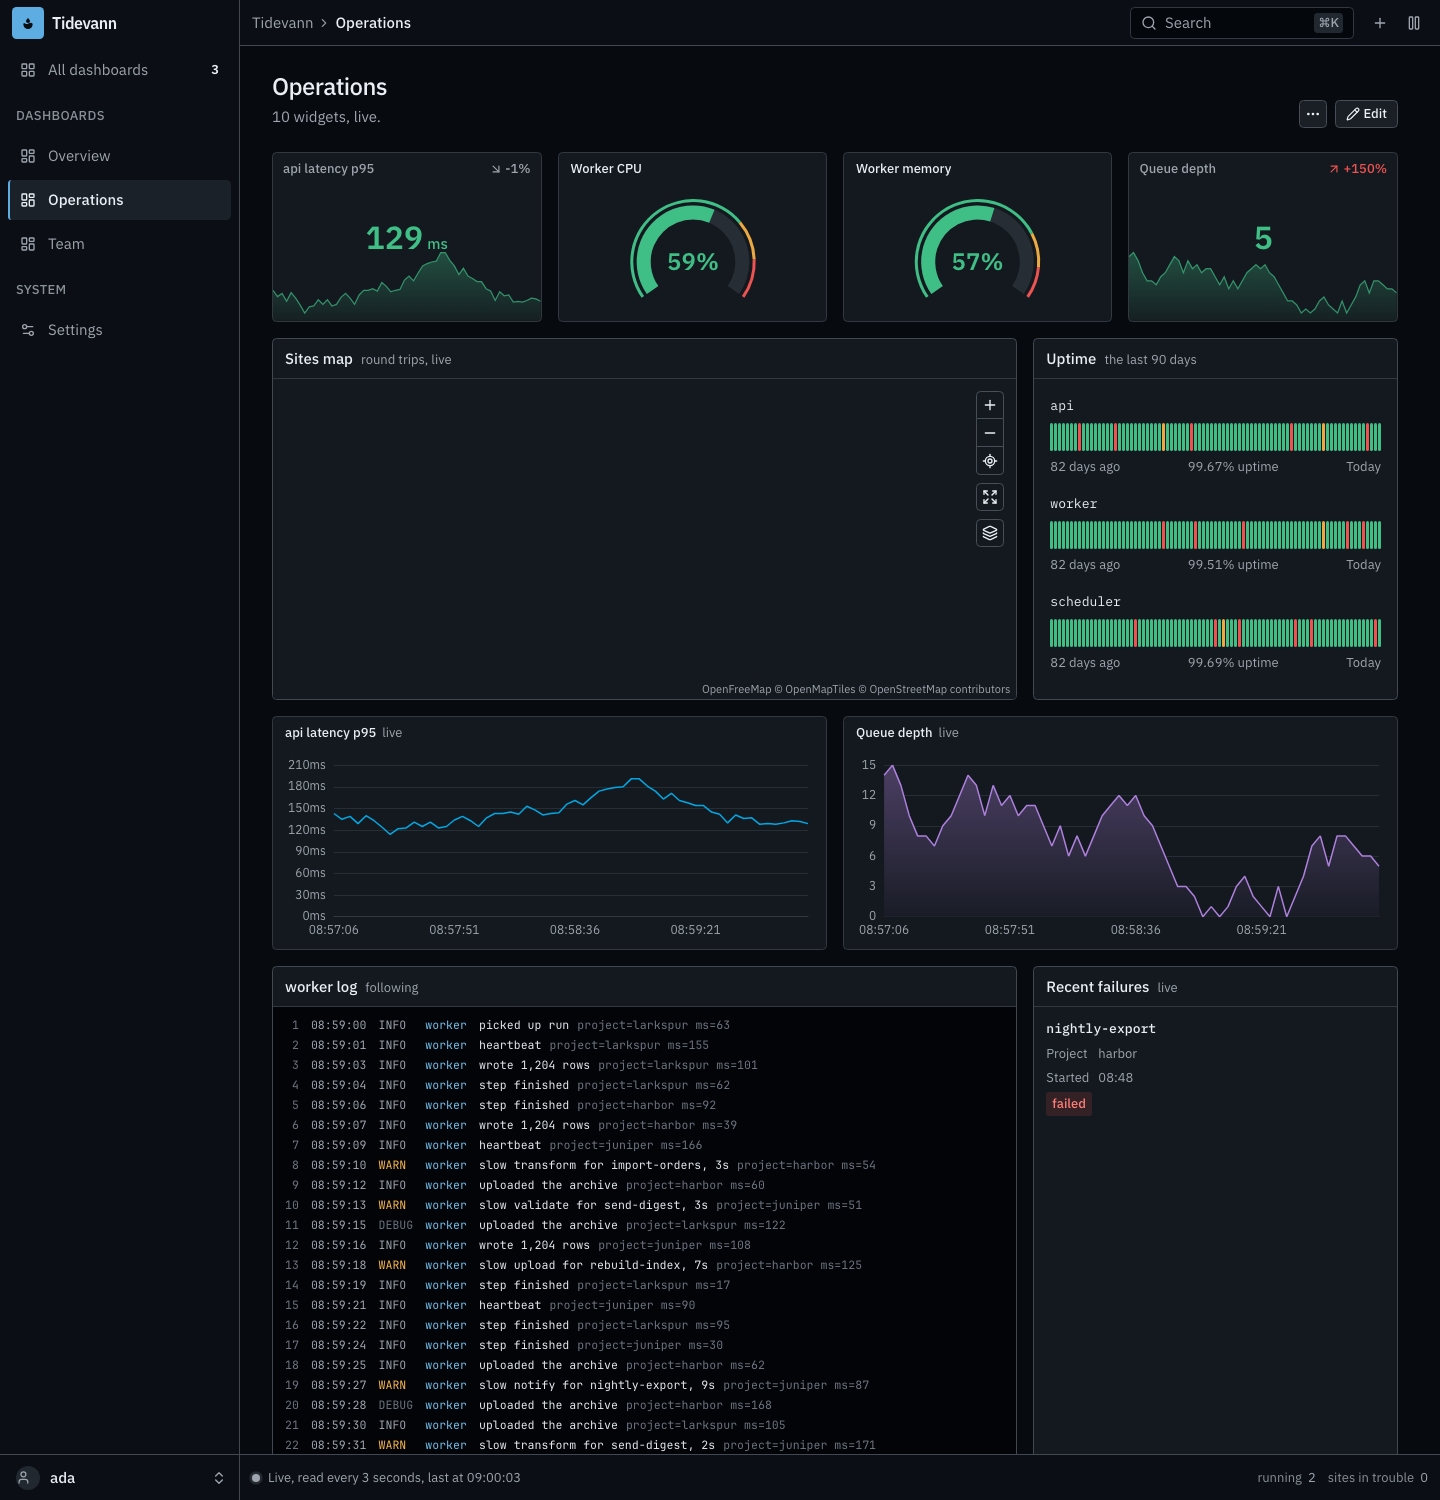
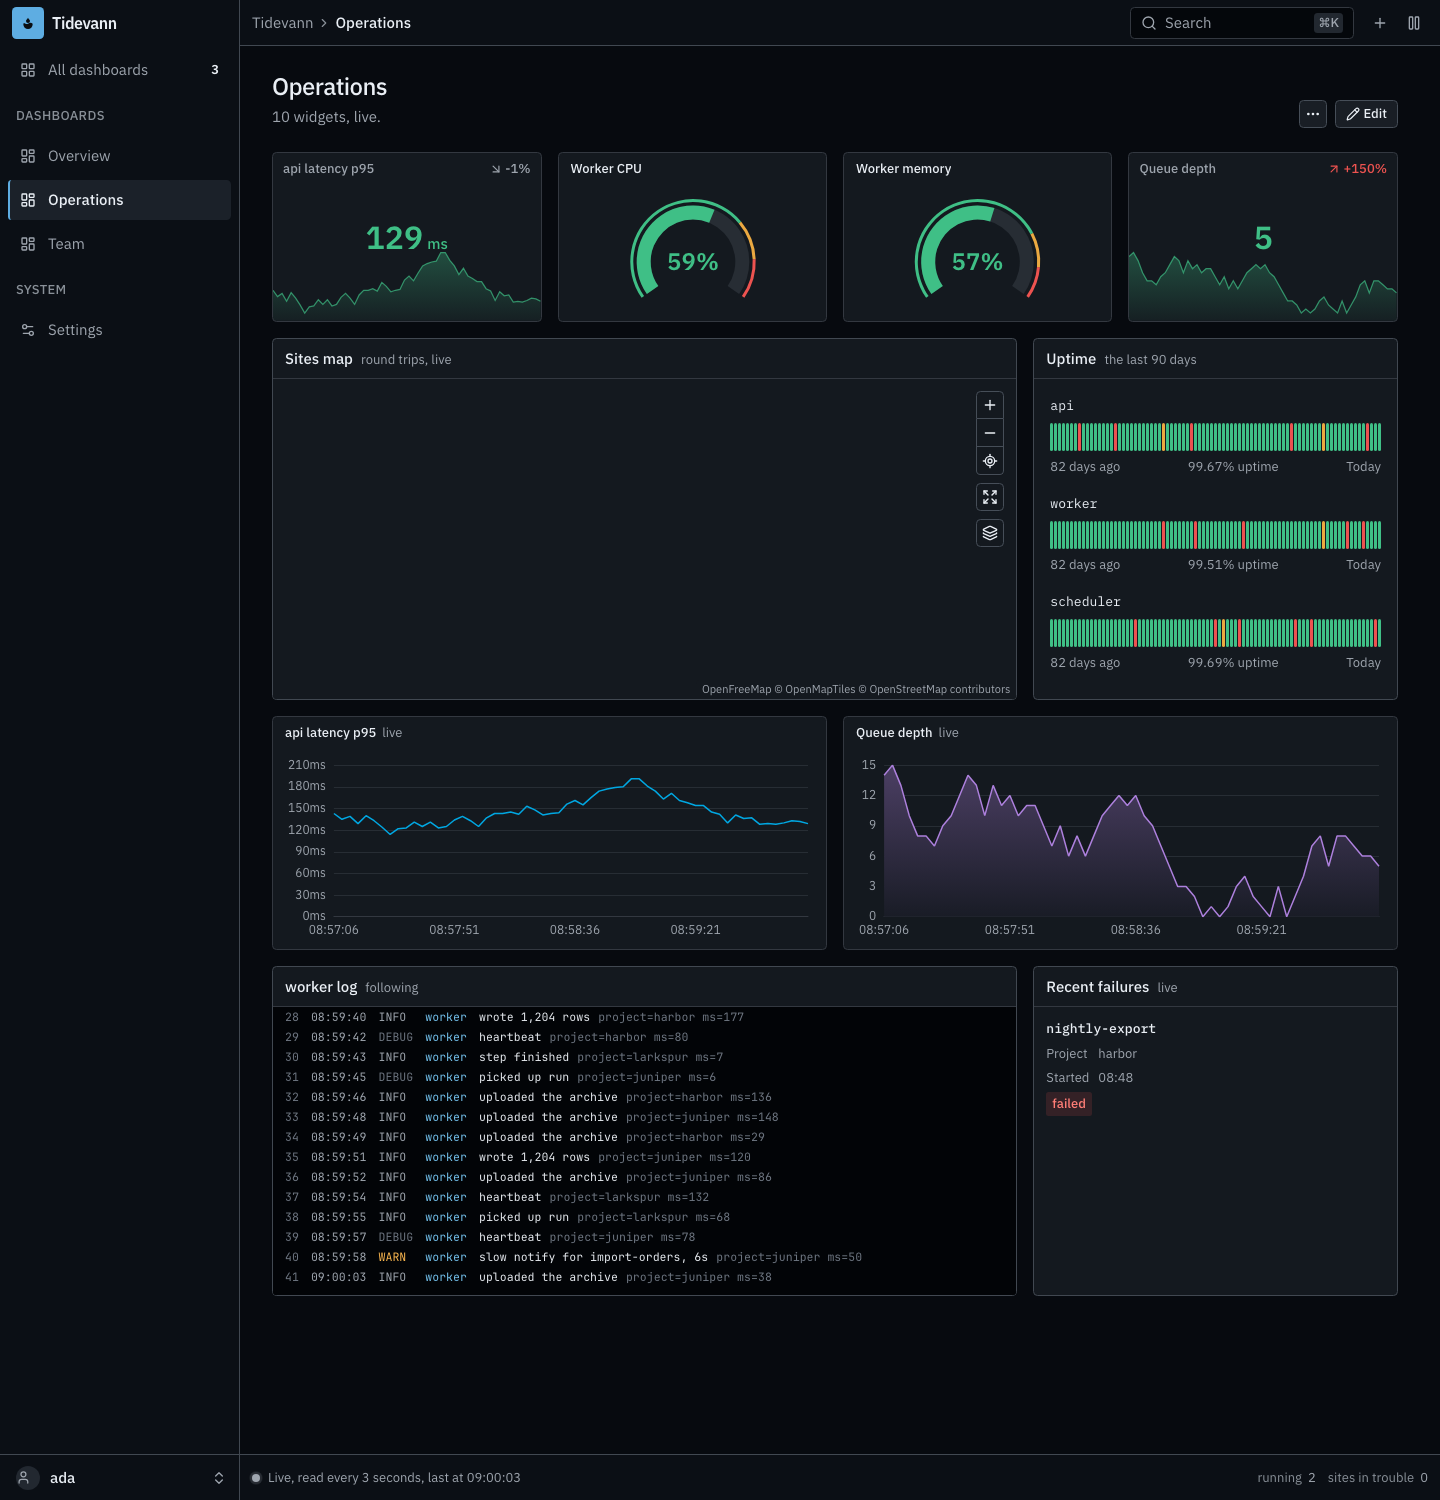
docs: the web dashboard shot again past sokkel-ui #600, its worker log as egui's

Changed region(s): [[0.1875, 0.6747, 0.5938, 0.9813]]

diff --git a/docs/parity/dashboard.md b/docs/parity/dashboard.md
@@ -82,5 +82,7 @@ UTC, so the shots are taken in UTC: shot in Oslo, the schedules' times stood an 
 
 ## Next
 
-- Shoot the web's screens again once the sokkel-ui pin moves past #600 (`daa906c6`), which fixed
-  the web's worker log: it grew to its lines, its `h-72` lost to `flex-1`.
+- Nothing listed. The web's screens were shot again past #600 (`daa906c6`): its worker log now
+  stands 288 tall and fills its row, as egui's does. What still differs on the board is the live
+  data (egui's shot is paused, the web's runs 5 s) and the web's map, whose tiles a headless shot
+  does not load.
